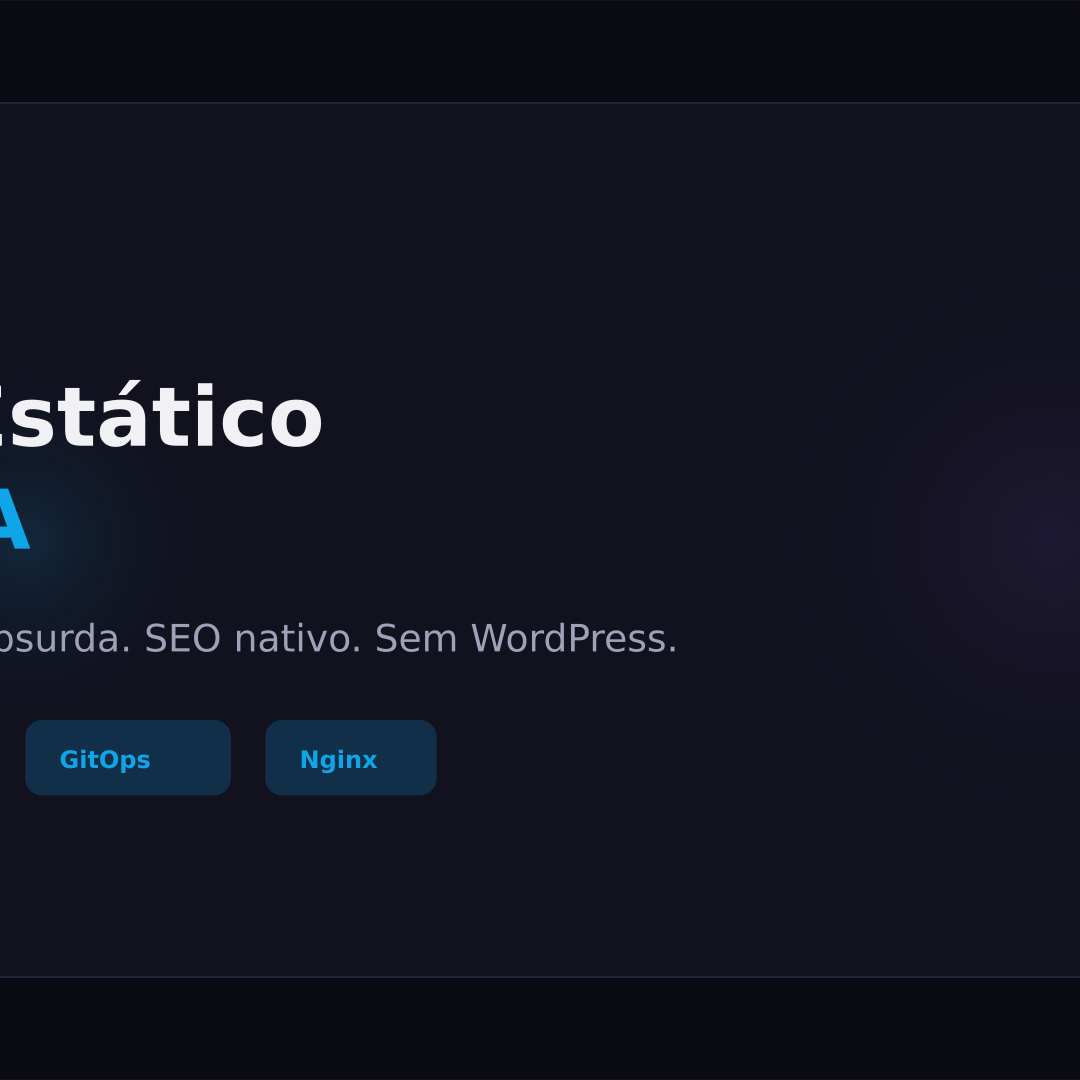
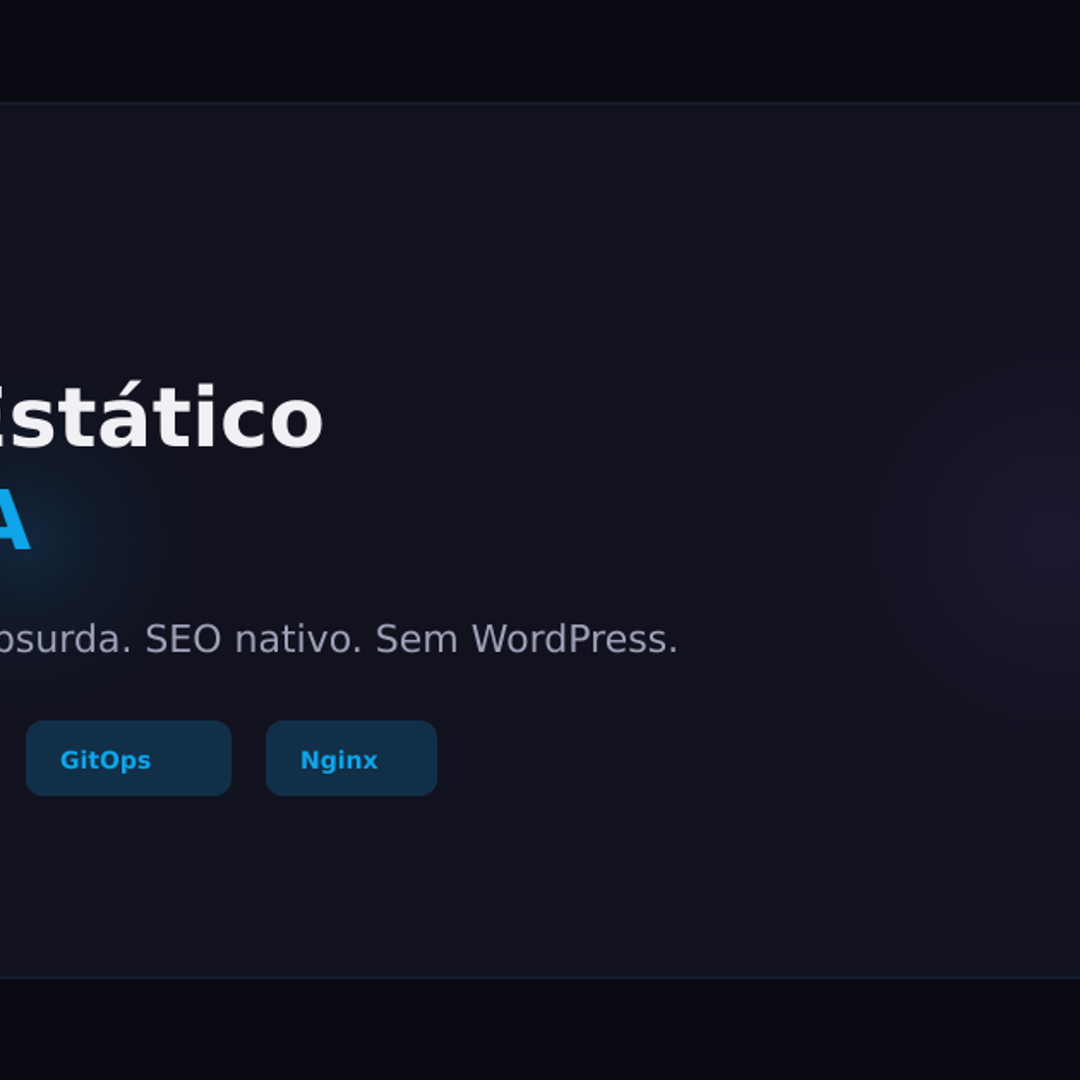
publish: atualização de conteúdo e build estático

diff --git a/scripts/generate-og-images.ts b/scripts/generate-og-images.ts
@@ -48,7 +48,7 @@ function findPostFrontmatter(svgFilename: string) {
     const parsed = matter(raw)
     return {
       title: parsed.data.title || slug,
-      excerpt: parsed.data.excerpt || ''
+      excerpt: parsed.data.excerpt || parsed.data.meta_description || ''
     }
   } catch {
     return null
@@ -68,11 +68,11 @@ async function renderImage(svgPath: string, outPath: string, width: number, heig
       const titleLines = wrapText(frontmatter.title, maxCharsTitle)
       const excerptLines = wrapText(frontmatter.excerpt, maxCharsExcerpt).slice(0, 3)
 
-      const titleLineHeight = width === 1080 ? 64 : 64
-      const excerptLineHeight = width === 1080 ? 40 : 40
+      const titleLineHeight = 64
+      const excerptLineHeight = 40
       
       const totalExcerptHeight = excerptLines.length * excerptLineHeight
-      const excerptStartY = height - (width === 1080 ? 50 : 30) - totalExcerptHeight
+      const excerptStartY = height - (width === 1080 ? 50 : 40) - totalExcerptHeight
 
       const totalTitleHeight = titleLines.length * titleLineHeight
       const titleStartY = excerptStartY - totalTitleHeight - 30
@@ -82,9 +82,9 @@ async function renderImage(svgPath: string, outPath: string, width: number, heig
         <defs>
           <linearGradient id="grad" x1="0" y1="0" x2="0" y2="1">
             <stop offset="0%" stop-color="black" stop-opacity="0.0"/>
-            <stop offset="${width === 1080 ? '50%' : '25%'}" stop-color="black" stop-opacity="${width === 1080 ? '0.1' : '0.2'}"/>
-            <stop offset="${width === 1080 ? '75%' : '60%'}" stop-color="black" stop-opacity="0.75"/>
-            <stop offset="100%" stop-color="black" stop-opacity="0.95"/>
+            <stop offset="${width === 1080 ? '40%' : '20%'}" stop-color="black" stop-opacity="0.3"/>
+            <stop offset="${width === 1080 ? '70%' : '55%'}" stop-color="black" stop-opacity="0.85"/>
+            <stop offset="100%" stop-color="black" stop-opacity="0.98"/>
           </linearGradient>
         </defs>
         <rect x="0" y="0" width="${width}" height="${height}" fill="url(#grad)" />
@@ -92,13 +92,13 @@ async function renderImage(svgPath: string, outPath: string, width: number, heig
       
       let currY = titleStartY
       for (const line of titleLines) {
-        textSvg += `\n<text x="60" y="${currY}" font-family="sans-serif" font-weight="bold" font-size="52" fill="#ffffff">${line}</text>`
+        textSvg += `\n<text x="60" y="${currY}" font-family="system-ui, -apple-system, sans-serif" font-weight="800" font-size="52" fill="#ffffff">${line}</text>`
         currY += titleLineHeight
       }
 
       currY = excerptStartY
       for (const line of excerptLines) {
-        textSvg += `\n<text x="60" y="${currY}" font-family="sans-serif" font-size="28" fill="#e0e0e0">${line}</text>`
+        textSvg += `\n<text x="60" y="${currY}" font-family="system-ui, -apple-system, sans-serif" font-weight="400" font-size="28" fill="#e2e8f0">${line}</text>`
         currY += excerptLineHeight
       }
 
@@ -121,6 +121,21 @@ async function generatePngFromSvg() {
 
   for (const dir of dirs) {
     if (!fs.existsSync(dir)) continue
+
+    const allFiles = fs.readdirSync(dir)
+
+    // Auto-normalize any standalone slug.png into slug-base.png so it gets processed
+    for (const f of allFiles) {
+      if (f.endsWith('.png') && !f.endsWith('-base.png') && !f.endsWith('-sq.png')) {
+        const baseName = f.replace(/\.png$/, '-base.png')
+        const basePath = path.join(dir, baseName)
+        const currentPath = path.join(dir, f)
+        if (!fs.existsSync(basePath)) {
+          console.log(`[OG Images] Auto-criando imagem base original: ${baseName}`)
+          fs.copyFileSync(currentPath, basePath)
+        }
+      }
+    }
 
     const files = fs.readdirSync(dir)
     const baseFiles = files.filter(f => f.endsWith('.svg') || (f.endsWith('-base.png') && !f.endsWith('-sq.png')))
